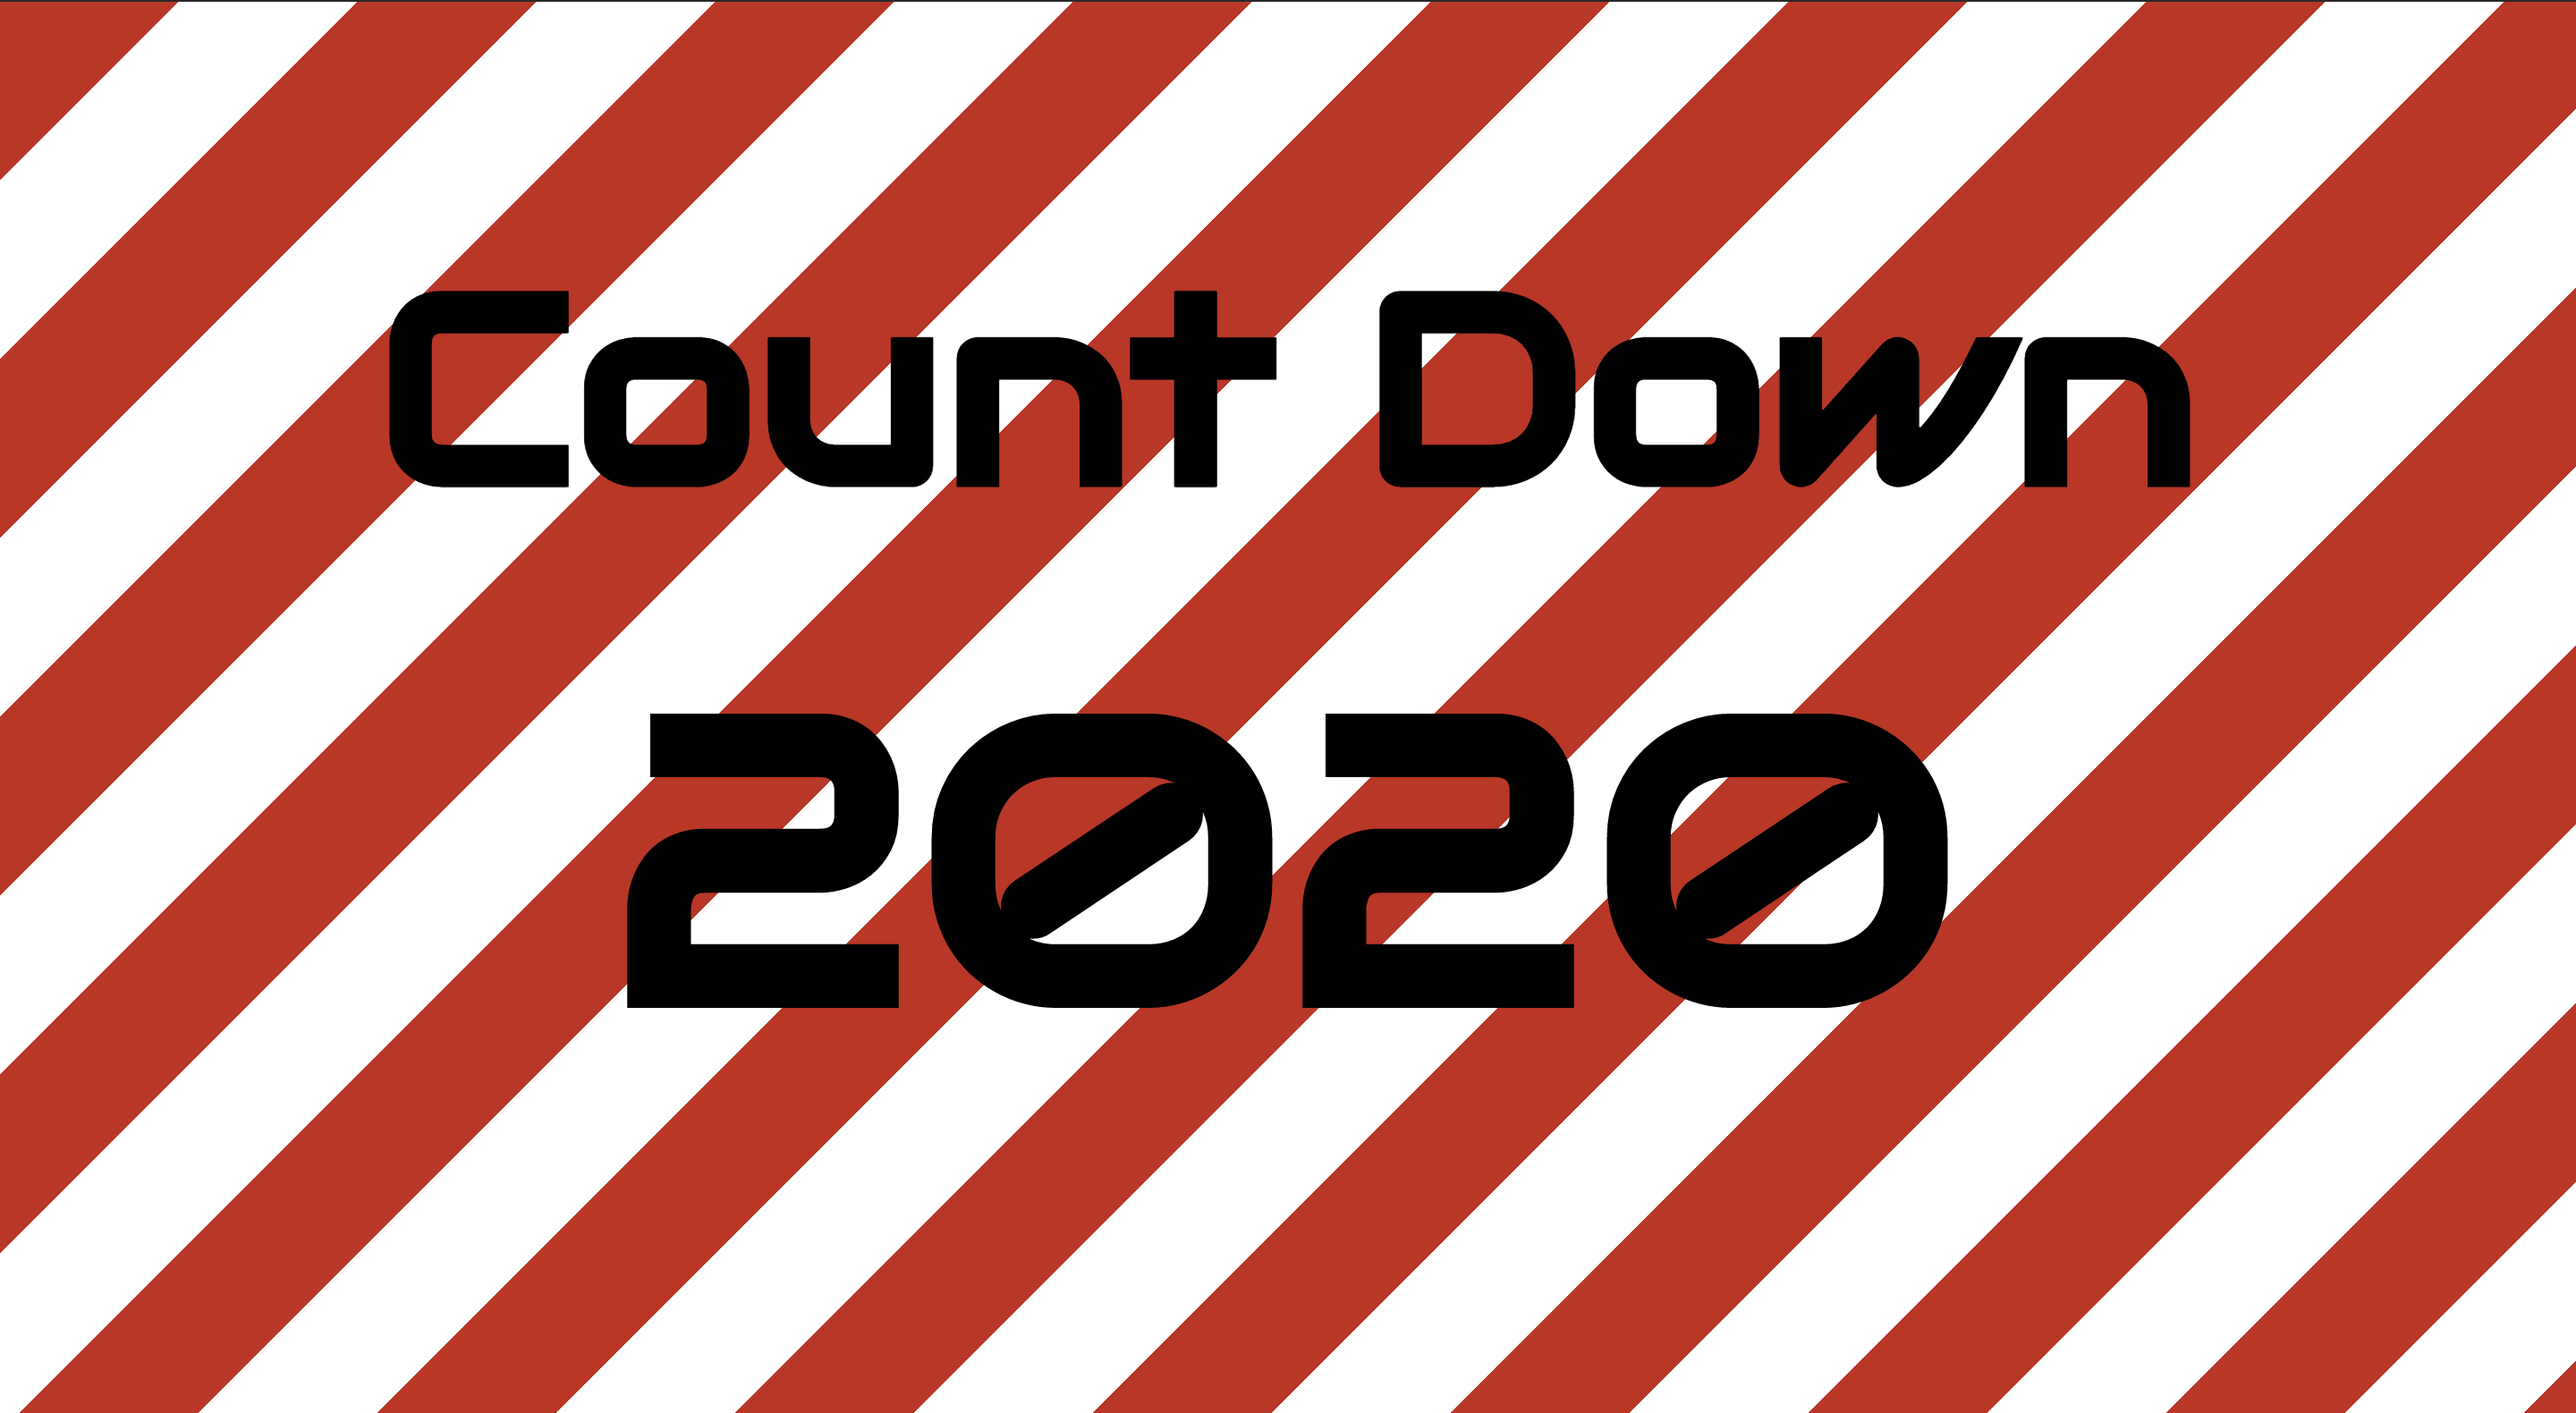
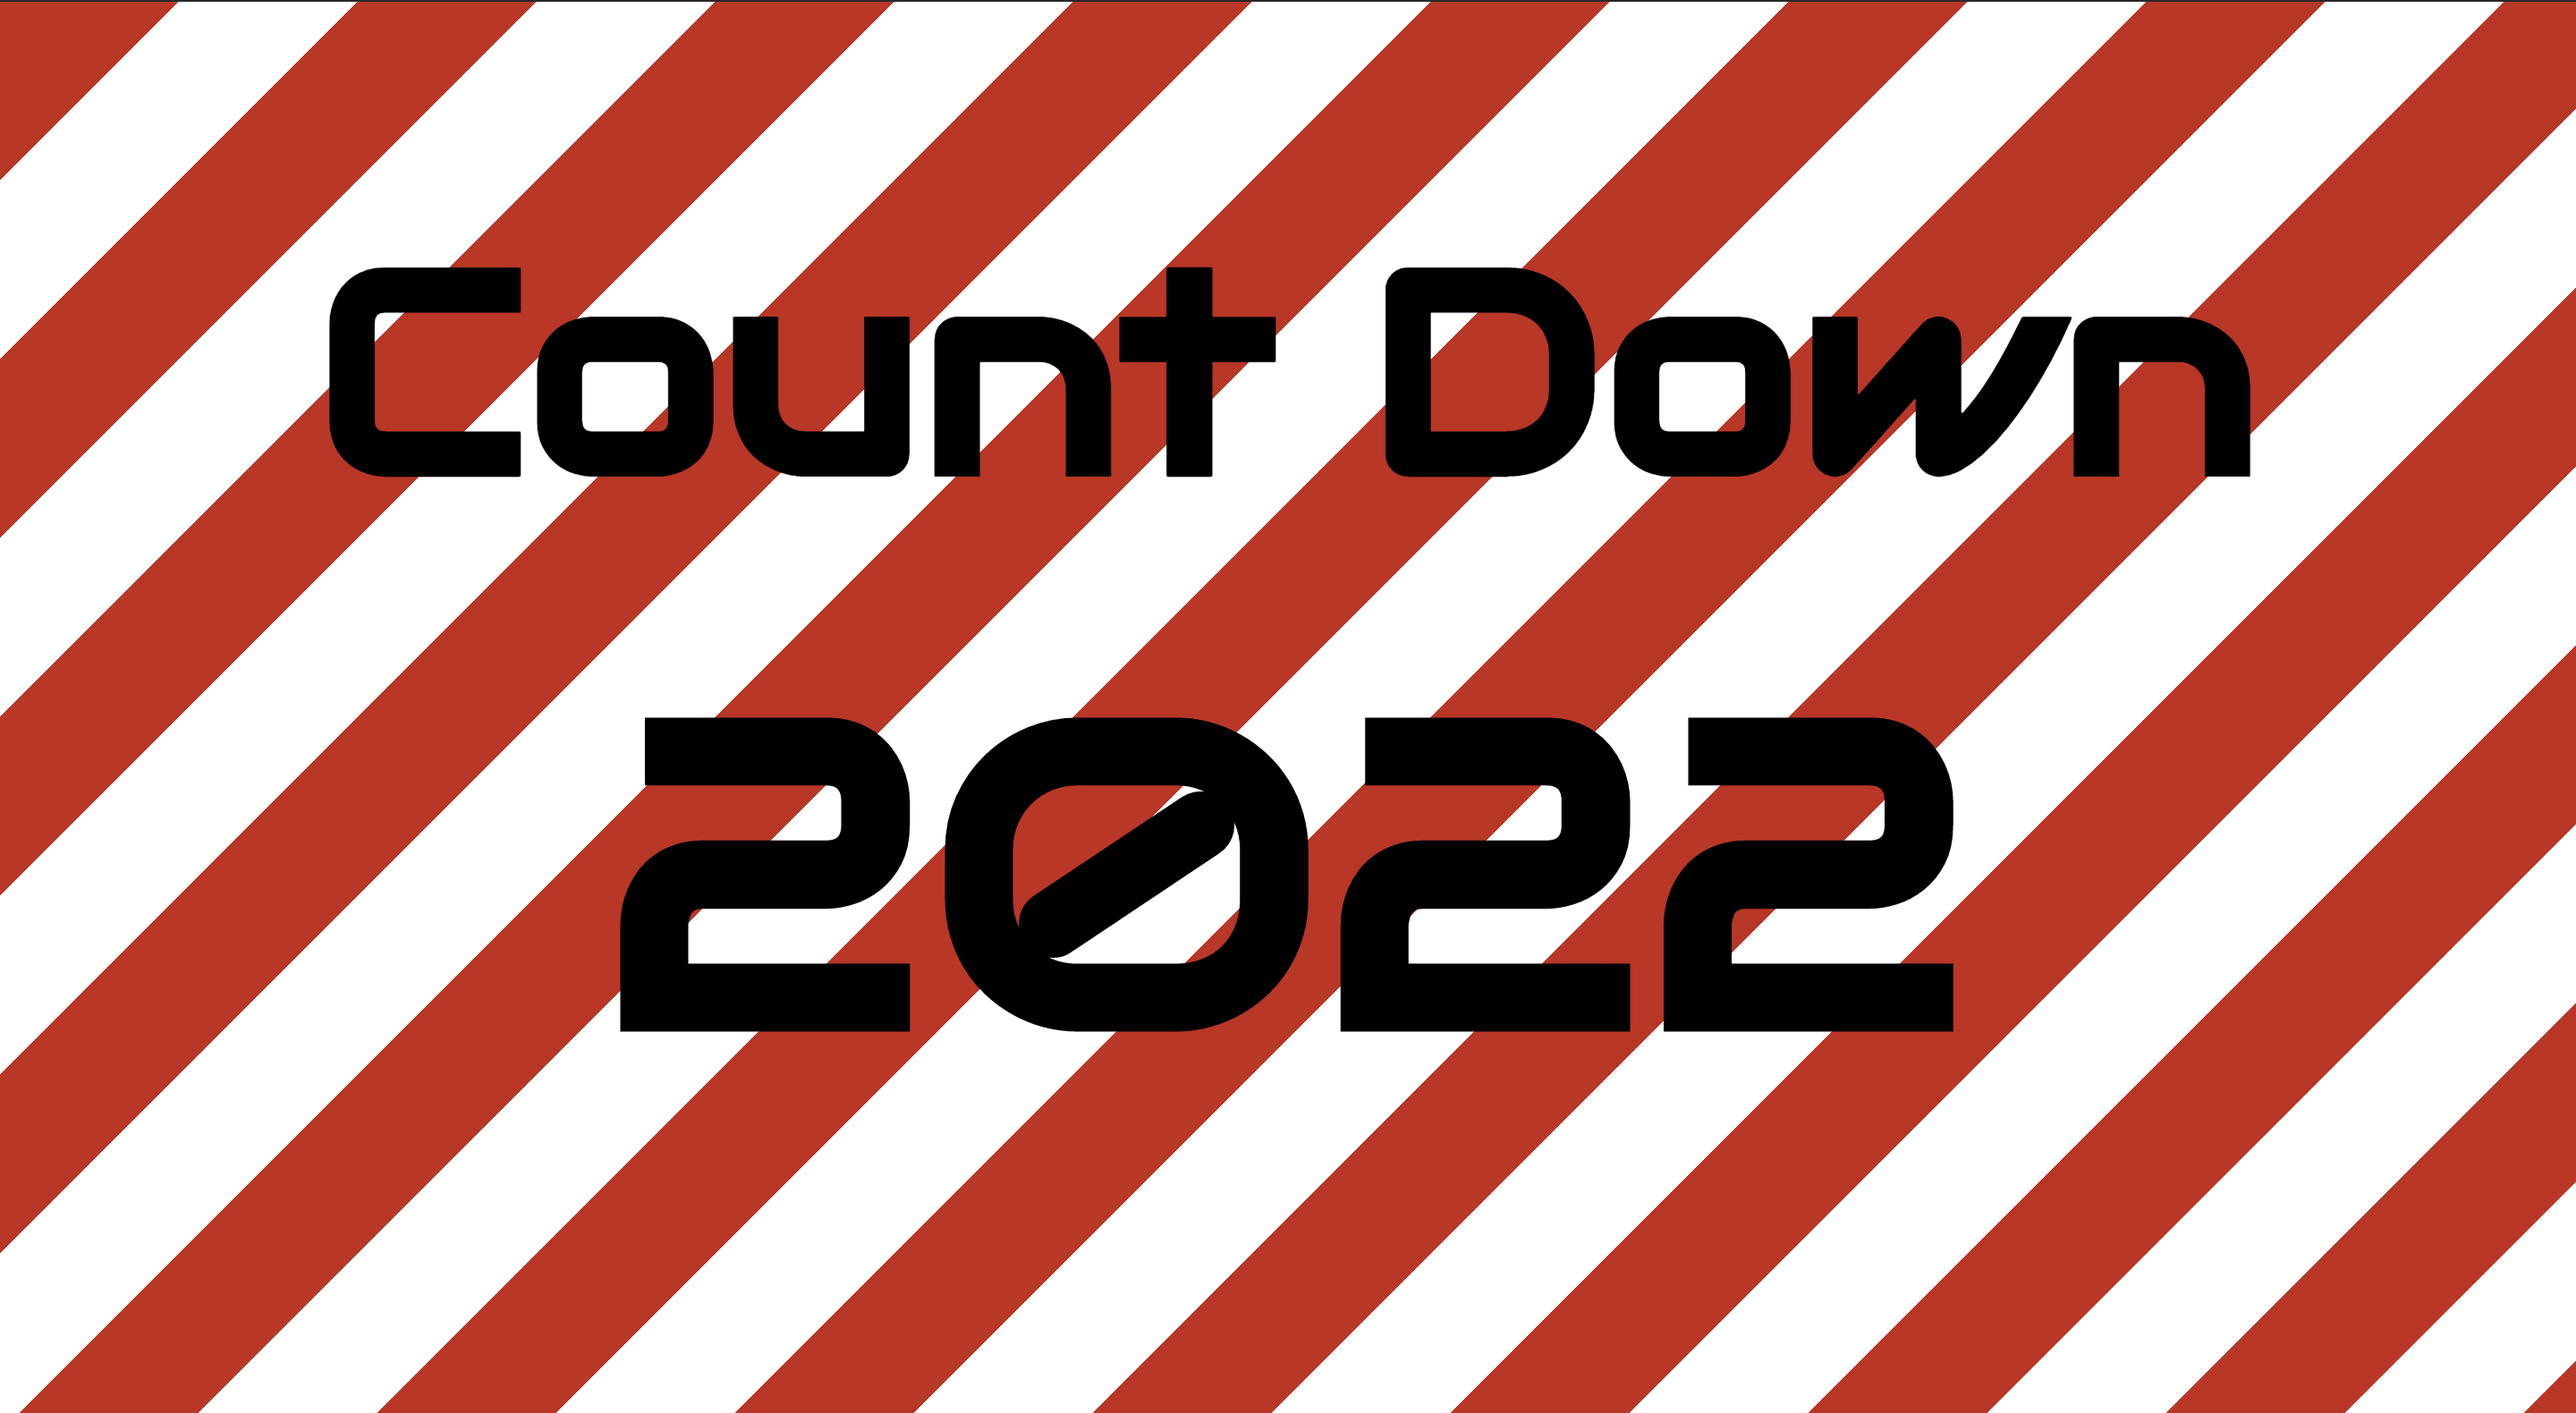
OGP up

Changed region(s): [[0.2188, 0.4962, 0.7812, 0.7443], [0.125, 0.1861, 0.5, 0.3722], [0.5312, 0.1861, 0.875, 0.3722]]

diff --git a/resources/views/welcome.blade.php b/resources/views/welcome.blade.php
@@ -3,14 +3,14 @@
 <head>
     <meta charset="utf-8">
     <meta name="viewport" content="width=device-width, initial-scale=1">
-    <meta name="description" content="友達追加して、2020年をカウントダウンしよう！">
+    <meta name="description" content="友達追加して、2022年をカウントダウンしよう！">
 
     <link rel="stylesheet" href="https://cdnjs.cloudflare.com/ajax/libs/meyer-reset/2.0/reset.min.css">
     <link rel="preconnect" href="https://fonts.gstatic.com">
     <link href="https://fonts.googleapis.com/css2?family=Audiowide&display=swap" rel="stylesheet">
 
     <meta property="og:type" content="blog">
-    <meta property="og:description" content="友達追加して、2020年をカウントダウンしよう！">
+    <meta property="og:description" content="友達追加して、2022年をカウントダウンしよう！">
     <meta property="og:title" content="{{ config('app.name') }}">
     <meta property="og:url" content="{{ config('app.url') }}">
     <meta property="og:image"
@@ -80,7 +80,7 @@
     <title>{{ config('app.name') }}</title>
 </head>
 <body class="wrapper">
-<h1>Count Down<br><span>2020</span></h1>
+<h1>Count Down<br><span>2022</span></h1>
 <div class="line-it-button" data-lang="ja" data-type="friend" data-lineid="284aezpw" style="display: none;"></div>
 <script src="https://www.line-website.com/social-plugins/js/thirdparty/loader.min.js" async="async"
         defer="defer"></script>
